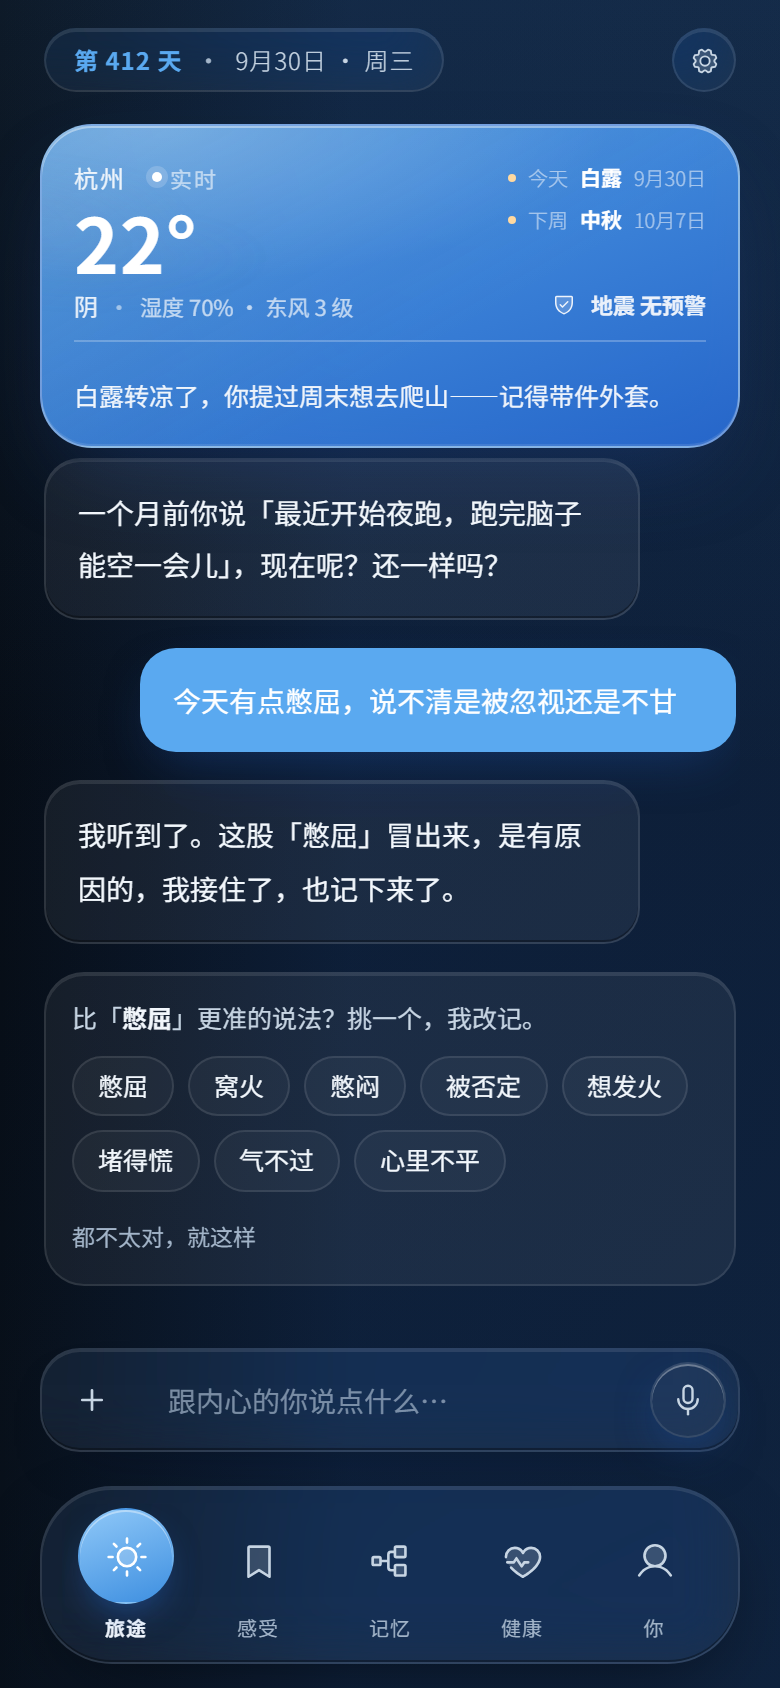
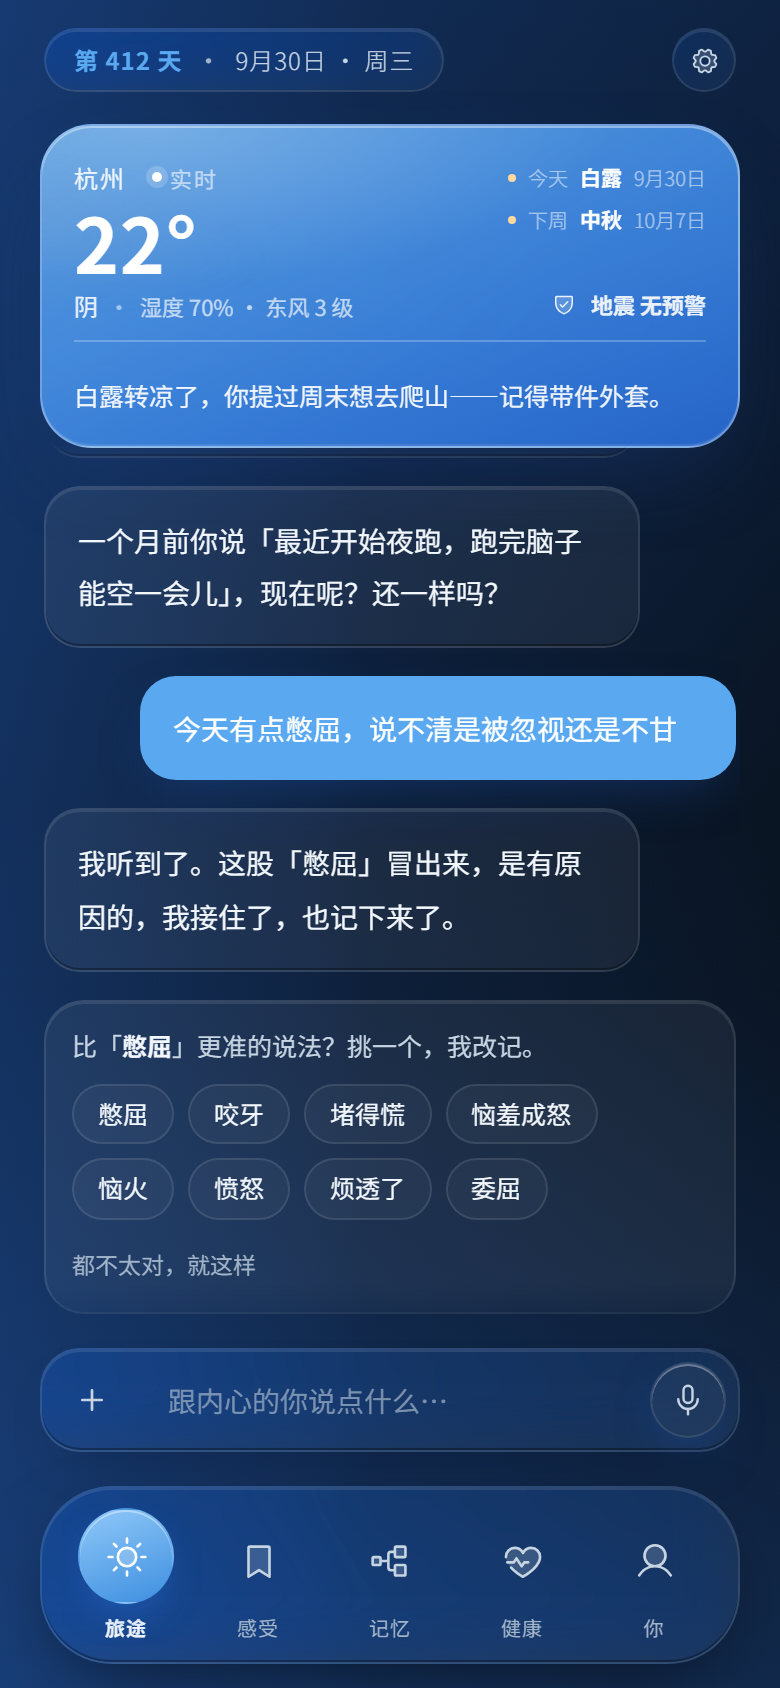
fix: 回复一次一条 + 收紧输入框上方留白

diff --git a/prototype/index.html b/prototype/index.html
@@ -1178,8 +1178,11 @@
   /* 路途 · 聊天记录区 */
   /* v74：滚动限位 + 顶部渐隐——消息滑到天气卡下面时柔化淡出，不再硬切半个气泡 */
   .day-status{position:relative;z-index:4;}
+  /* v115：一条消息里可以有换行（多段合并用） */
+  .msg{white-space:pre-line;}
   .chat-log{
-    flex:1 1 auto;min-height:0;overflow-y:auto;padding:2px 2px 28px;
+    flex:1 1 auto;min-height:0;overflow-y:auto;padding:2px 2px 14px;
+    /* v115：底部留白 28→14，输入框上方的空白压掉一半 */
     /* v111：上边界提到天气卡下方，只留 10px 做顶部渐隐 */
     margin-top:-26px;
     overscroll-behavior:contain;                 /* 滚到头就停，不做橡皮筋回弹 */
@@ -1301,6 +1304,7 @@
   /* 路途 · 输入区：悬浮玻璃胶囊条（三个功能圆钮 + 输入框 + 圆形发送钮） */
   .chat-input{
     position:relative;
+    margin-top:0;
     flex-shrink:0;display:flex;align-items:center;gap:6px;
     padding:6px;border-radius:var(--r-card);
     background:var(--glass-bg);
@@ -5429,17 +5433,14 @@
     /* ③ 危机（最高优先级）→ 喊醒 + 弹窗确认，不直接甩号码 */
     if(CRISIS.re.test(v)){
       stageUp();
-      setTimeout(function(){ appendMsg('me', CRISIS.name); }, 600);
-      setTimeout(function(){ appendMsg('me', CRISIS.hold); }, 1800);
+      setTimeout(function(){ appendMsg('me', CRISIS.name + '\n' + CRISIS.hold); }, 600);
       setTimeout(function(){ openCrisisModal(); }, 3000);
       return;
     }
     /* 风险 → 温柔但明确地转介专业帮助 */
     if(RISK.re.test(v)){
       stageUp();
-      setTimeout(function(){ appendMsg('me', RISK.name); }, 600);
-      setTimeout(function(){ appendMsg('me', RISK.wake); }, 1800);
-      setTimeout(function(){ appendMsg('me', RISK.ask); }, 3400);
+      setTimeout(function(){ appendMsg('me', RISK.name + '\n' + RISK.wake + '\n' + RISK.ask); }, 600);
       return;
     }
 
@@ -5508,17 +5509,12 @@
       stageUp();
       /* 熟悉度决定第 2 句是「开放式引导」还是「具体呼应」 */
       var second = (PROFILE.stage >= 1) ? em.echo : em.ask;
-      setTimeout(function(){ appendMsg('me', em.name); }, 600);
-      setTimeout(function(){ appendMsg('me', second); }, 1800);
-      setTimeout(function(){ appendMsg('me', em.hold); }, 3000);
+      /* v115：一次只回一条（原来 5 条连发像刷屏）——先接住，再给一句引导 */
       setTimeout(function(){
-        appendMsg('me', em.guide);       /* 引导你继续把情绪倒出来 */
+        appendMsg('me', em.name + '\n' + second);
         addFeeling(em.view);             /* 我眼中的你：悄悄记一笔 */
         addState(em.signal);             /* 身体的信号：悄悄记一笔 */
-      }, 4200);
-      setTimeout(function(){
-        appendMsg('me', em.selfDist);    /* 自我距离化：拉远一步，用旁观者视角 */
-      }, 5400);
+      }, 600);
       return;
     }
 
